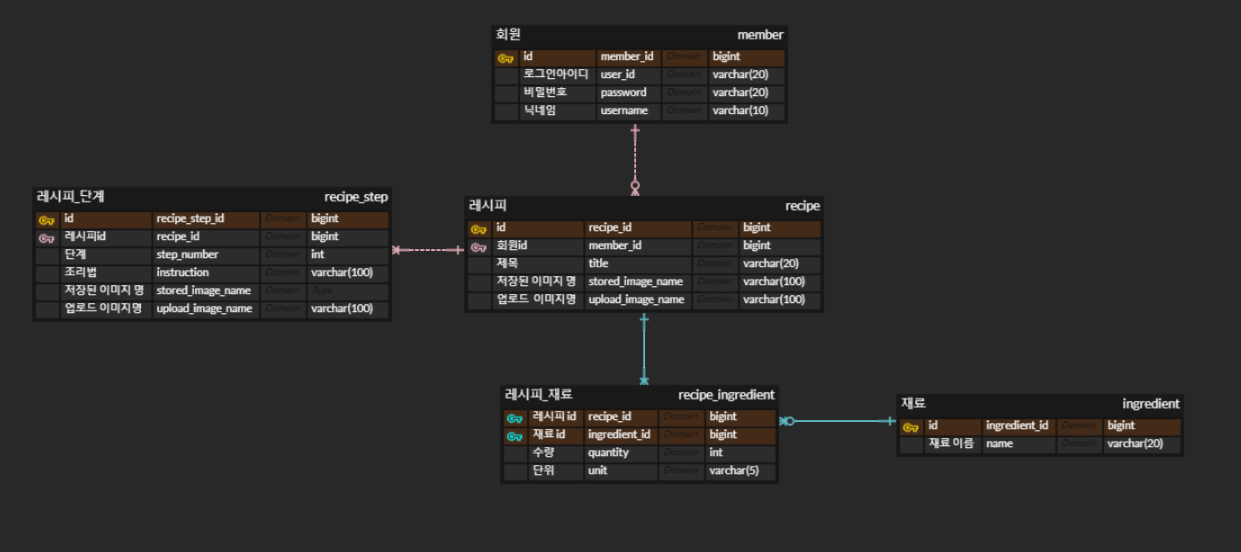
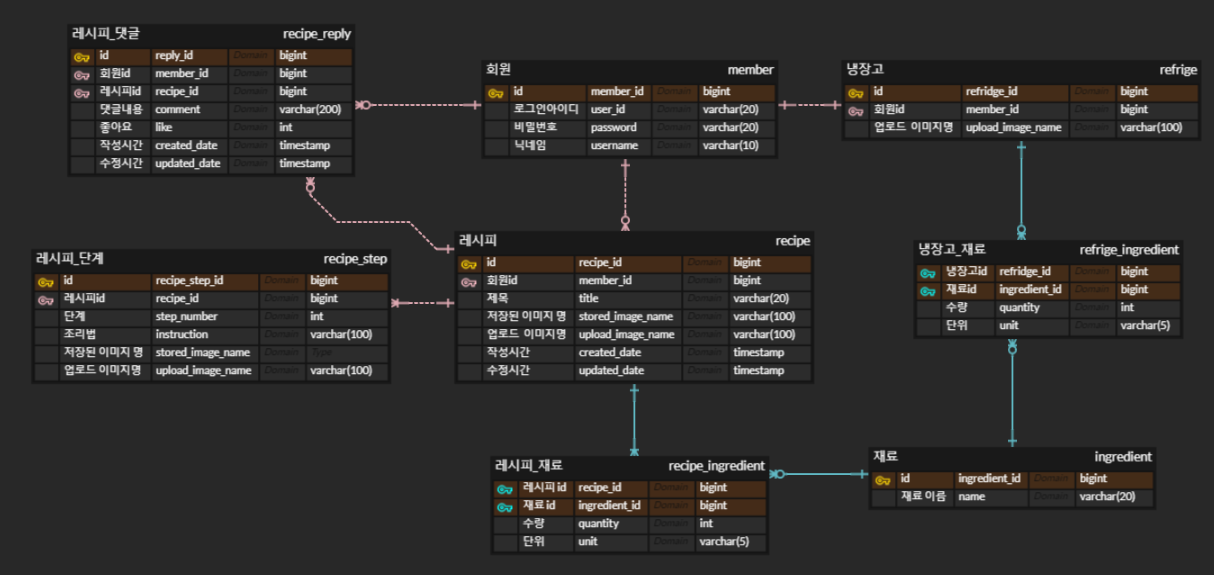
refactor: global.config 패키지로 이동

Changed region(s): [[0.0305, 0.0308, 1.0, 0.9547], [0.7315, 0.3696, 0.9753, 0.6159]]

diff --git a/src/main/java/project/bobzip/global/config/WebConfig.java b/src/main/java/project/bobzip/global/config/WebConfig.java
@@ -1,4 +1,4 @@
-package project.bobzip;
+package project.bobzip.global.config;
 
 import org.springframework.context.annotation.Configuration;
 import org.springframework.web.servlet.config.annotation.InterceptorRegistry;

diff --git a/src/main/java/project/bobzip/global/controller/HomeController.java b/src/main/java/project/bobzip/global/controller/HomeController.java
@@ -1,4 +1,4 @@
-package project.bobzip;
+package project.bobzip.global.controller;
 
 import org.springframework.stereotype.Controller;
 import org.springframework.ui.Model;

diff --git a/src/main/java/project/bobzip/global/config/AppConfig.java b/src/main/java/project/bobzip/global/config/AppConfig.java
@@ -1,4 +1,4 @@
-package project.bobzip;
+package project.bobzip.global.config;
 
 import com.querydsl.core.QueryFactory;
 import com.querydsl.jpa.impl.JPAQueryFactory;

diff --git a/README.md b/README.md
@@ -28,9 +28,15 @@
   * [x] 레시피 삭제 
   * [x] 레시피 검색 
     * [x] [예외처리] 검색결과가 없는 경우 결과없음 화면 출력
+  * [ ] 레시피 수정 
 * 냉장고 관리
-  * [ ] 냉장고 등록 
+  * [ ] 냉장고 보관재료 등록 
   * [ ] 냉장고 삭제
+  * [ ] 냉장고 보관재료로 레시피 검색
+* 댓글 관리
+  * [ ] 댓글 작성
+  * [ ] 댓글 삭제
+  * [ ] 댓글 수정
 
 
 ## ER 다이어그램
